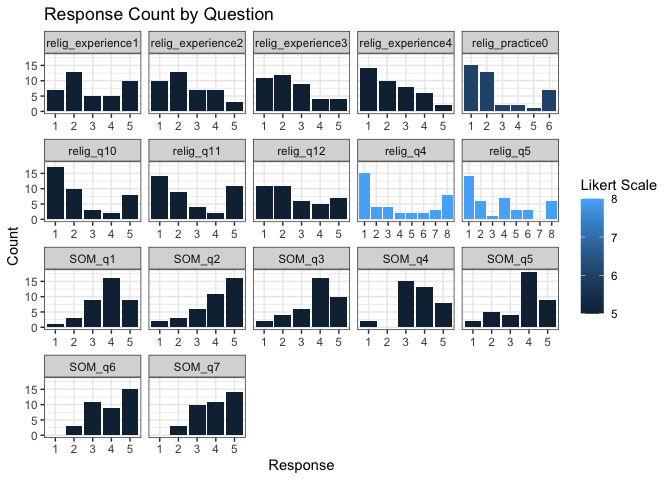
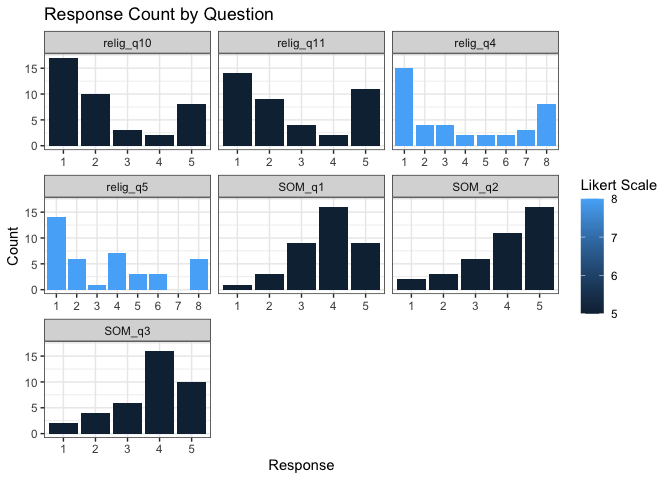
Made change to README

diff --git a/README.md b/README.md
@@ -4,7 +4,6 @@
 # psych.data.cleanup
 
 <!-- badges: start -->
-
 <!-- badges: end -->
 
 The `psych.data.cleanup` package provides an R interface to retrieve
@@ -34,19 +33,10 @@ library(psych.data.cleanup)
 
 likert_results <- likert_scale_analyzer(
   data = religious_som,
-  likert_cols = c("relig_practice0", "relig_q4","relig_q5","relig_q10","relig_q11","relig_q12","relig_experience1","relig_experience2","relig_experience3","relig_experience4","SOM_q1","SOM_q2","SOM_q3","SOM_q4","SOM_q5","SOM_q6","SOM_q7"),
+  likert_cols = c("relig_q4","relig_q5","relig_q10","relig_q11", "SOM_q1","SOM_q2","SOM_q3"),
   invalid_values = c(" ", "NA")
 ) 
 #> Likert Scale Analysis Results
-#> ----------------------------
-#> Question: relig_practice0 
-#> Valid Responses: 40 
-#> Invalid Responses: 17 
-#> Scale Min: 1 
-#> Scale Max: 6 
-#> Response Counts:
-#>  1  2  3  4  5  6 
-#> 15 13  2  2  1  7 
 #> ----------------------------
 #> Question: relig_q4 
 #> Valid Responses: 40 
@@ -84,51 +74,6 @@ likert_results <- likert_scale_analyzer(
 #>  1  2  3  4  5 
 #> 14  9  4  2 11 
 #> ----------------------------
-#> Question: relig_q12 
-#> Valid Responses: 40 
-#> Invalid Responses: 17 
-#> Scale Min: 1 
-#> Scale Max: 5 
-#> Response Counts:
-#>  1  2  3  4  5 
-#> 11 11  6  5  7 
-#> ----------------------------
-#> Question: relig_experience1 
-#> Valid Responses: 40 
-#> Invalid Responses: 17 
-#> Scale Min: 1 
-#> Scale Max: 5 
-#> Response Counts:
-#>  1  2  3  4  5 
-#>  7 13  5  5 10 
-#> ----------------------------
-#> Question: relig_experience2 
-#> Valid Responses: 40 
-#> Invalid Responses: 17 
-#> Scale Min: 1 
-#> Scale Max: 5 
-#> Response Counts:
-#>  1  2  3  4  5 
-#> 10 13  7  7  3 
-#> ----------------------------
-#> Question: relig_experience3 
-#> Valid Responses: 40 
-#> Invalid Responses: 17 
-#> Scale Min: 1 
-#> Scale Max: 5 
-#> Response Counts:
-#>  1  2  3  4  5 
-#> 11 12  9  4  4 
-#> ----------------------------
-#> Question: relig_experience4 
-#> Valid Responses: 40 
-#> Invalid Responses: 17 
-#> Scale Min: 1 
-#> Scale Max: 5 
-#> Response Counts:
-#>  1  2  3  4  5 
-#> 14 10  8  6  2 
-#> ----------------------------
 #> Question: SOM_q1 
 #> Valid Responses: 38 
 #> Invalid Responses: 19 
@@ -155,42 +100,6 @@ likert_results <- likert_scale_analyzer(
 #> Response Counts:
 #>  1  2  3  4  5 
 #>  2  4  6 16 10 
-#> ----------------------------
-#> Question: SOM_q4 
-#> Valid Responses: 38 
-#> Invalid Responses: 19 
-#> Scale Min: 1 
-#> Scale Max: 5 
-#> Response Counts:
-#>  1  2  3  4  5 
-#>  2  0 15 13  8 
-#> ----------------------------
-#> Question: SOM_q5 
-#> Valid Responses: 38 
-#> Invalid Responses: 19 
-#> Scale Min: 1 
-#> Scale Max: 5 
-#> Response Counts:
-#>  1  2  3  4  5 
-#>  2  5  4 18  9 
-#> ----------------------------
-#> Question: SOM_q6 
-#> Valid Responses: 38 
-#> Invalid Responses: 19 
-#> Scale Min: 1 
-#> Scale Max: 5 
-#> Response Counts:
-#>  1  2  3  4  5 
-#>  0  3 11  9 15 
-#> ----------------------------
-#> Question: SOM_q7 
-#> Valid Responses: 38 
-#> Invalid Responses: 19 
-#> Scale Min: 1 
-#> Scale Max: 5 
-#> Response Counts:
-#>  1  2  3  4  5 
-#>  0  3 10 11 14 
 #> ----------------------------
 ```
 
